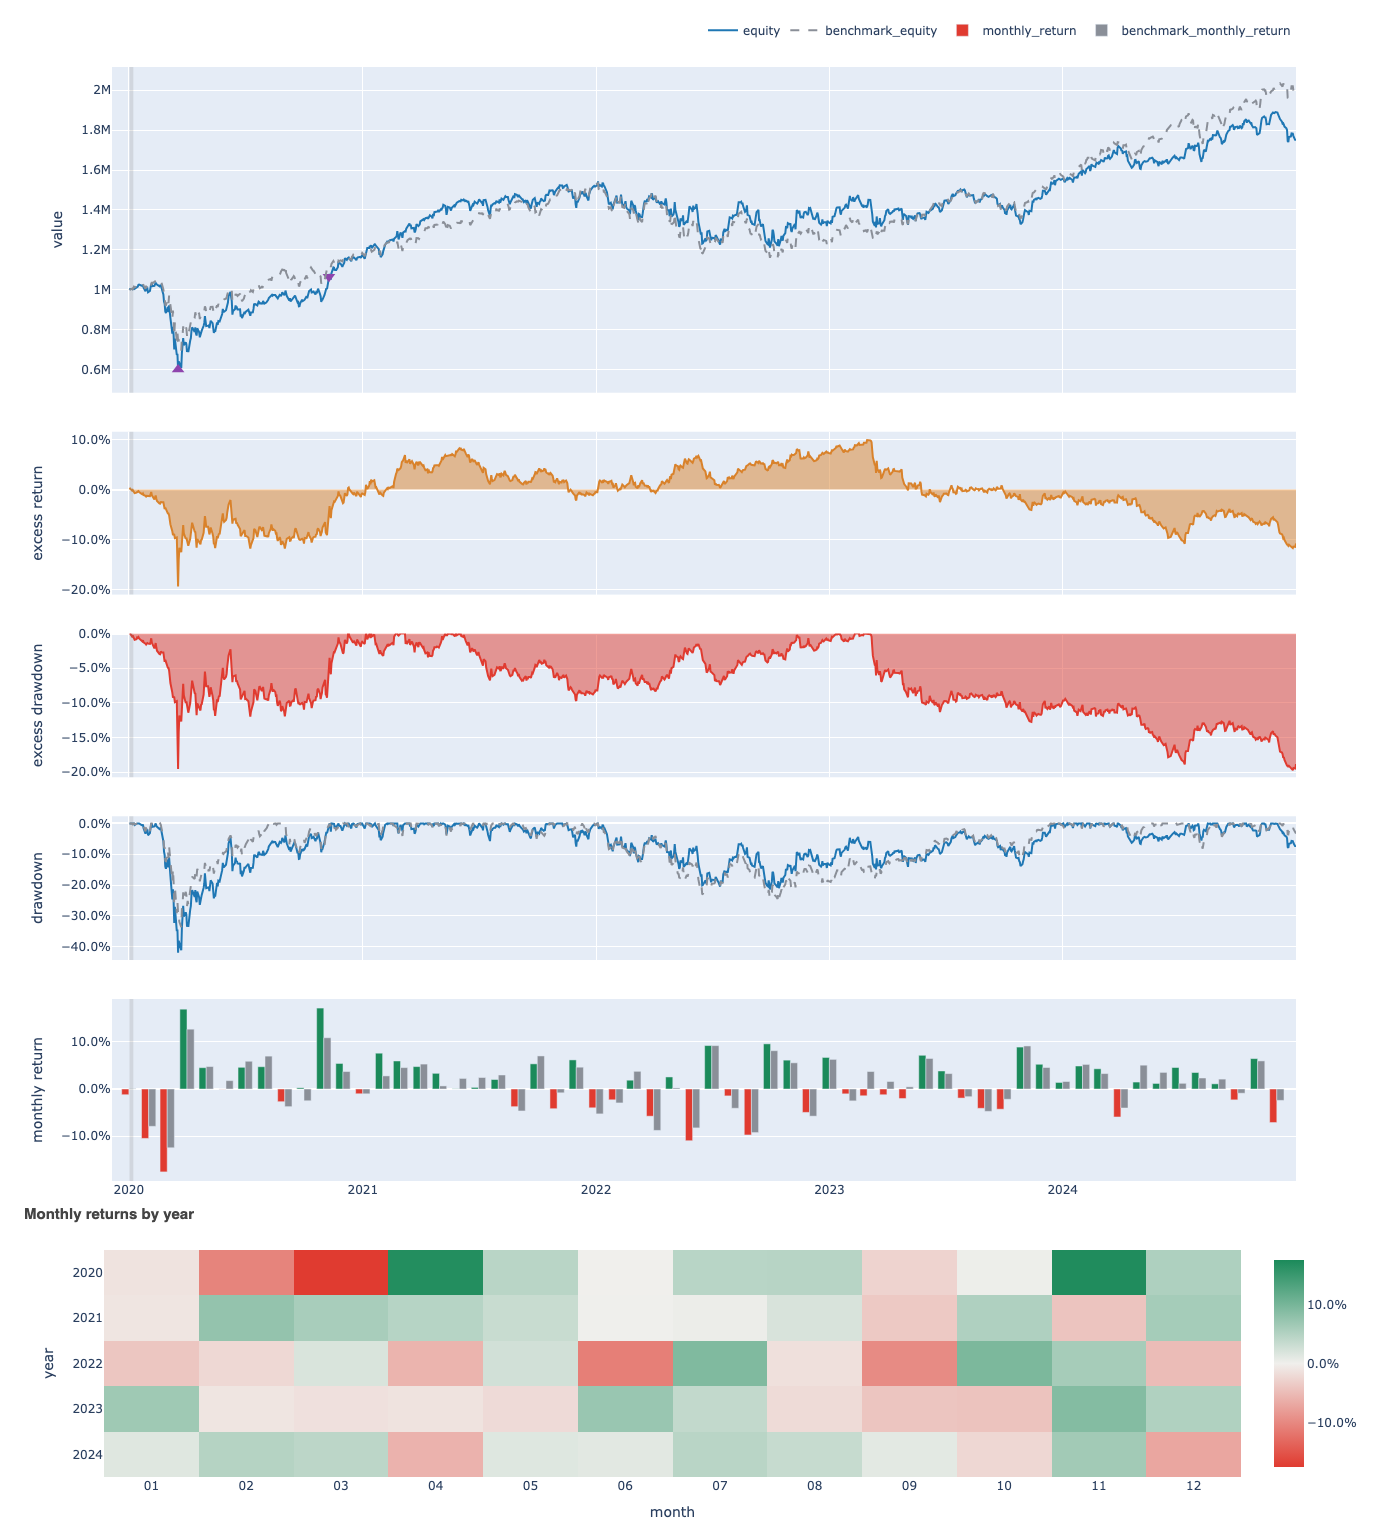
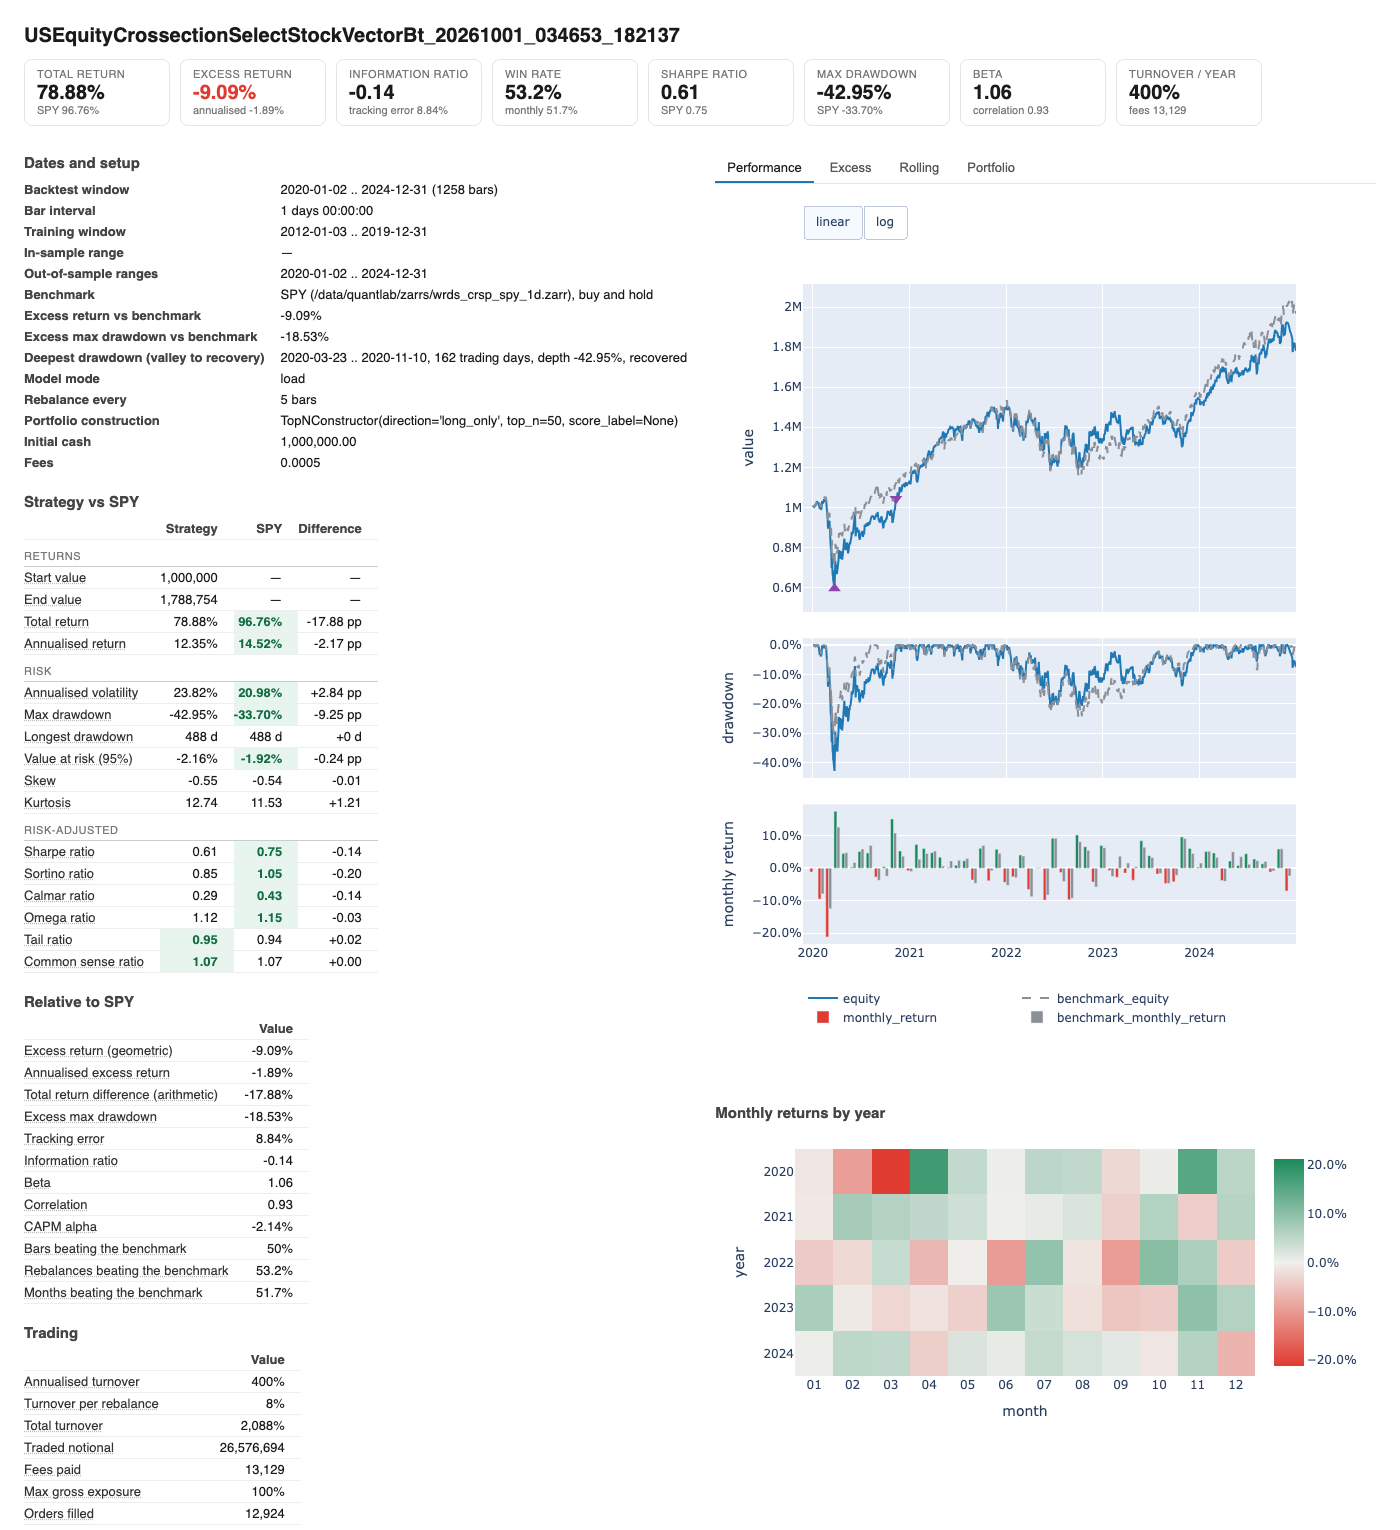
Recapture the backtest report screenshot; move the performance legend below the chart (#92)
In the page's half-width chart column a legend above the figure wraps
onto two rows and runs into the linear/log buttons. The screenshot is
examples/wrds_us_equity/sp500_xgb.py run on the full CRSP data.

diff --git a/quantlab/utils/backtest_report.py b/quantlab/utils/backtest_report.py
@@ -353,7 +353,9 @@ def backtest_report_figure(
         height=900,
         margin={"b": 140},
         showlegend=reference is not None,
-        legend={"orientation": "h", "x": 1.0, "xanchor": "right", "y": 1.02, "yanchor": "bottom"},
+        # Below the chart: in the page's half-width column a legend on top
+        # wraps onto two rows and runs into the linear/log buttons.
+        legend={"orientation": "h", "x": 0.0, "xanchor": "left", "y": -0.06, "yanchor": "top"},
         barmode="group",
         updatemenus=[_axis_toggle()],
     )
